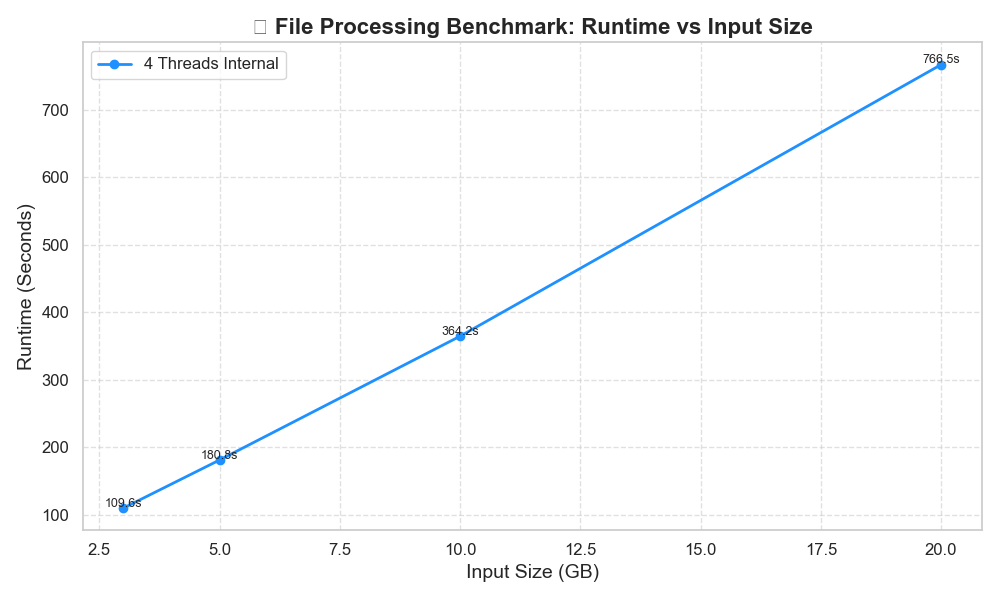
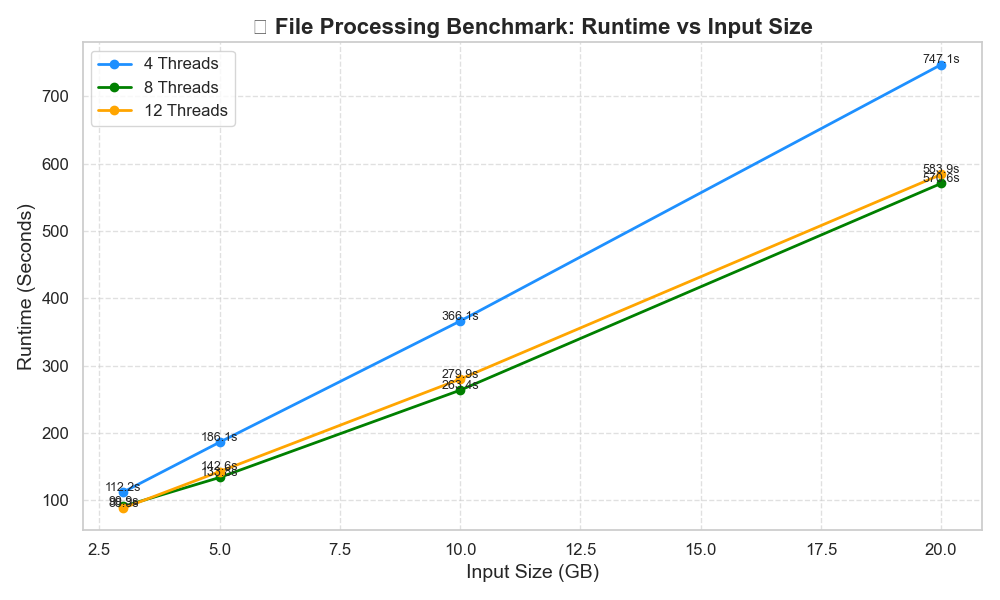
plot benchmark for 4 vs 8 vs 12 threads

diff --git a/benchmark_plot.py b/benchmark_plot.py
@@ -11,22 +11,29 @@ with open(bm_output, 'r') as f:
 
 benchmarks= benchmark_data['benchmarks']
 
-input_sizes_gb=[]
-times=[]
+thread_sizes = {
+    t: {'file_size': [], 'time': []}
+    for t in {b['name'].split('/')[2] for b in benchmarks}
+}
 
-threads= benchmarks[0]['name'].split('/')[2]
+for b in benchmarks:
+    t_size = b['name'].split('/')[2]
+    size_gb = int(b['name'].split('/')[1]) / (1024 ** 3)
+    time = b['real_time']
 
-for benchmark in benchmarks:
-    input_sizes_gb.append(int(benchmark['name'].split('/')[1]) / (1024 ** 3))
-    times.append(benchmark['real_time'])
+    thread_sizes[t_size]['file_size'].append(size_gb)
+    thread_sizes[t_size]['time'].append(time)
 
-    assert threads==benchmark['name'].split('/')[2]
+
+colors = ['dodgerblue', 'green', 'orange', 'crimson', 'purple', 'teal']
 
 plt.figure(figsize=(10, 6))
-plt.plot(input_sizes_gb, times, marker='o', linewidth=2, color='dodgerblue', label=f'{threads} Threads Internal')
-
-for x, y in zip(input_sizes_gb, times):
-    plt.text(x, y + 2, f"{y:.1f}s", ha='center', fontsize=9)
+for i, (t, values) in enumerate(sorted(thread_sizes.items(), key=lambda x: int(x[0]))):
+    color = colors[i % len(colors)]
+    plt.plot(values['file_size'], values['time'], marker='o', linewidth=2, color=color, label=f'{t} Threads')
+    
+    for x, y in zip(values['file_size'], values['time']):
+        plt.text(x, y + 2, f"{y:.1f}s", ha='center', fontsize=9)
 
 plt.title('📊 File Processing Benchmark: Runtime vs Input Size', fontsize=16, weight='bold')
 plt.xlabel('Input Size (GB)', fontsize=14)
@@ -38,4 +45,3 @@ plt.legend(fontsize=12, loc='upper left')
 plt.tight_layout()
 plt.savefig('benchmark.png')
 plt.show()
-
